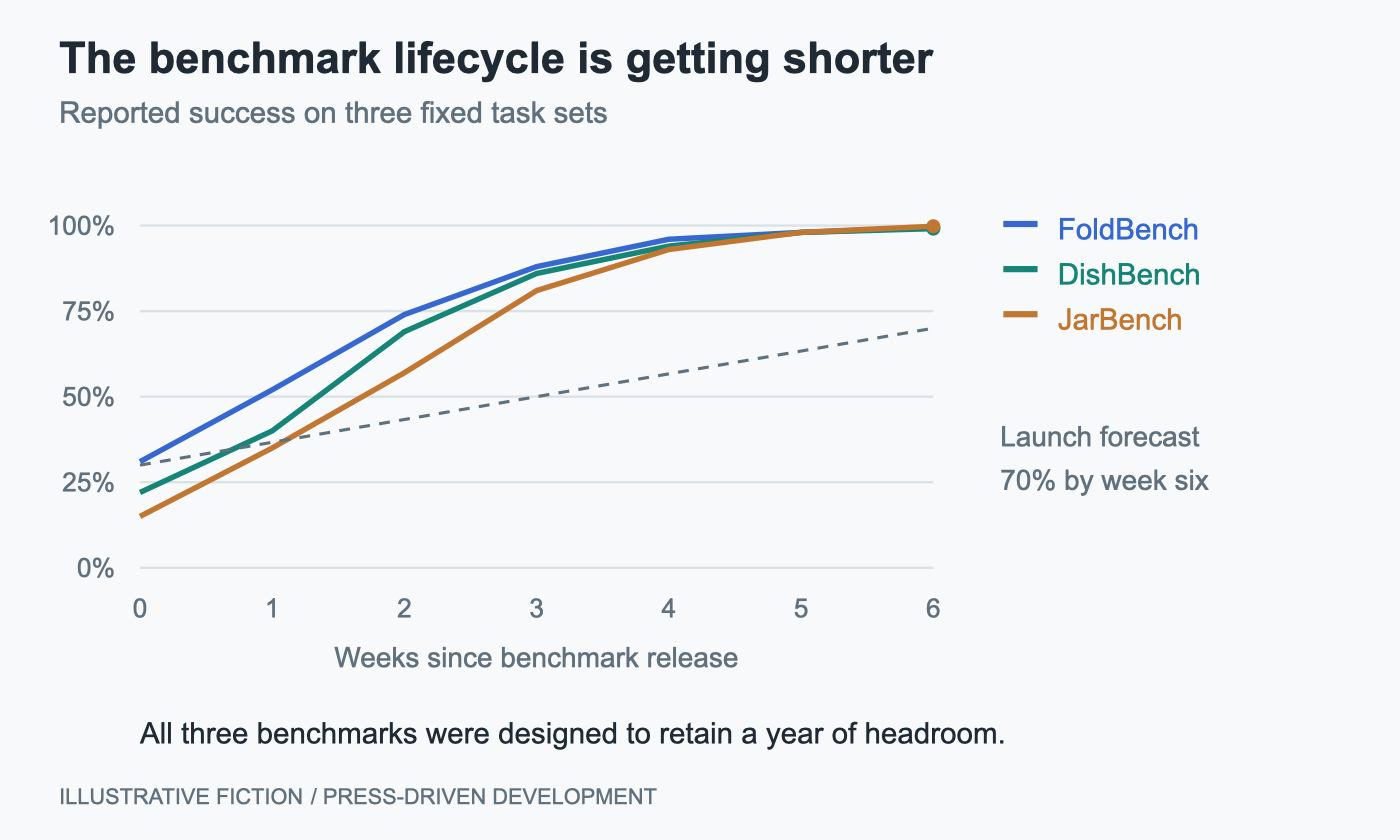
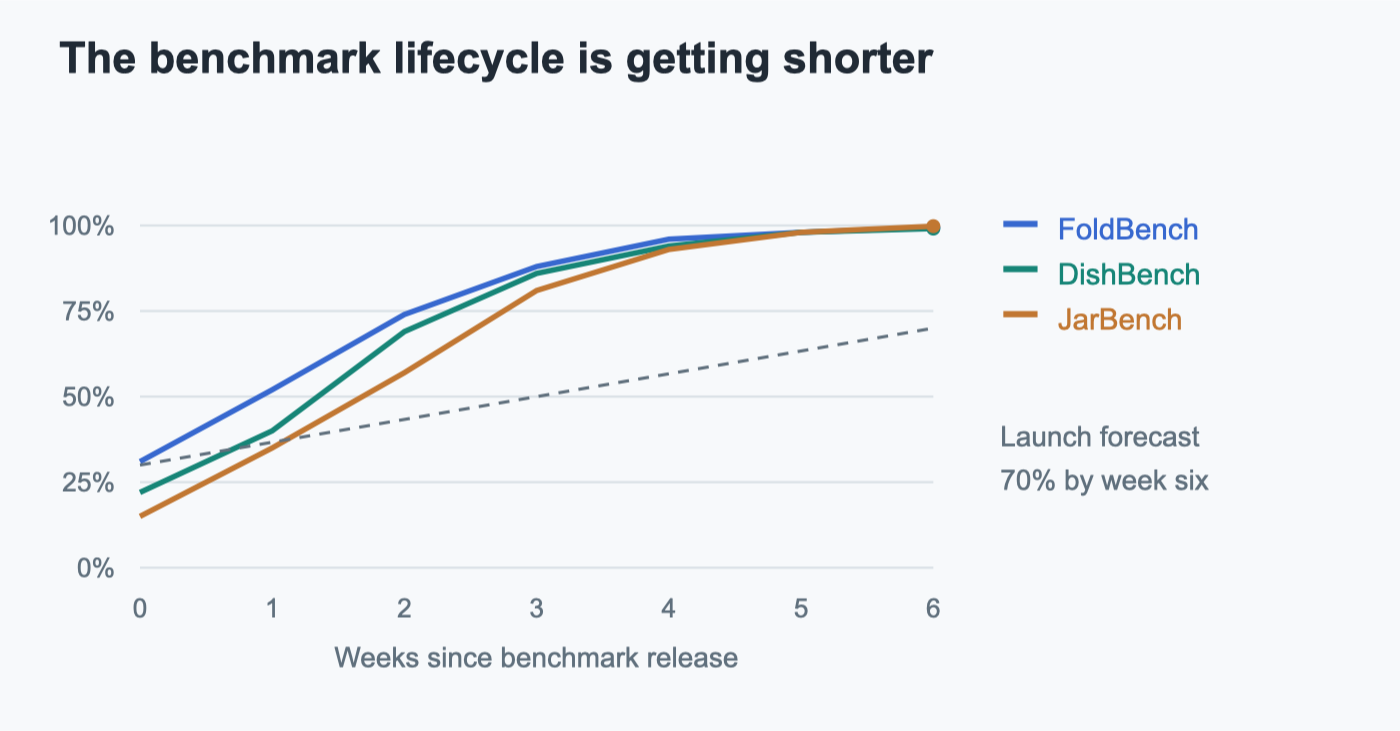
Remove subtitles and explanatory prose from benchmark charts

diff --git a/src/content/blog/2026-09-17-benchmark-driven-development.md b/src/content/blog/2026-09-17-benchmark-driven-development.md
@@ -54,6 +54,8 @@ None of these tests is useless. Each measures something narrower than the work s
 
 ![Fictional leaderboard: three robots exceed a human's 94.6% on prepared packing episodes. Shift completion and assistance are unreported for every entry.](/assets/press-driven-leaderboard.svg)
 
+*Prepared episodes, fixed order mix. Dashes indicate unreported results.*
+
 ## The environment is part of the result
 
 In our packaging evaluation, we held the robot, model checkpoint, and order mix fixed. We changed the episode boundary.
